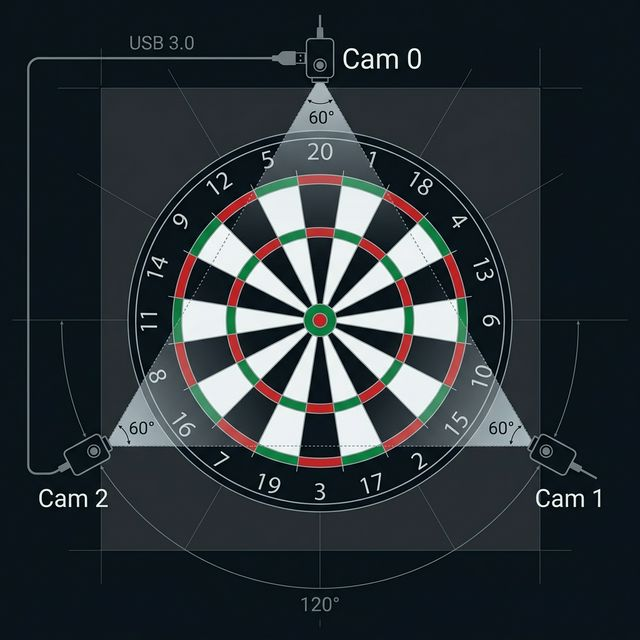
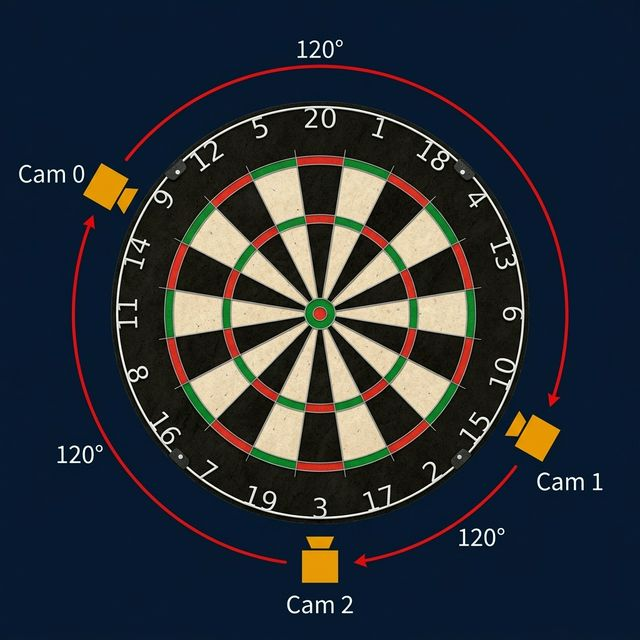
Update camera layout image (11 o'clock start) and USB 2.0 spec

diff --git a/README.md b/README.md
@@ -28,7 +28,7 @@
 | Item | Spec |
 |---|---|
 | Cameras | 3× USB webcams, 1080p recommended |
-| USB | Each camera on its own USB controller |
+| USB | USB 2.0 — each camera on its own USB controller |
 | OS | Windows (tested) / Linux |
 | CPU | Any modern x86-64 multi-core |
 | GPU | Optional — only needed if YOLO models are enabled |
